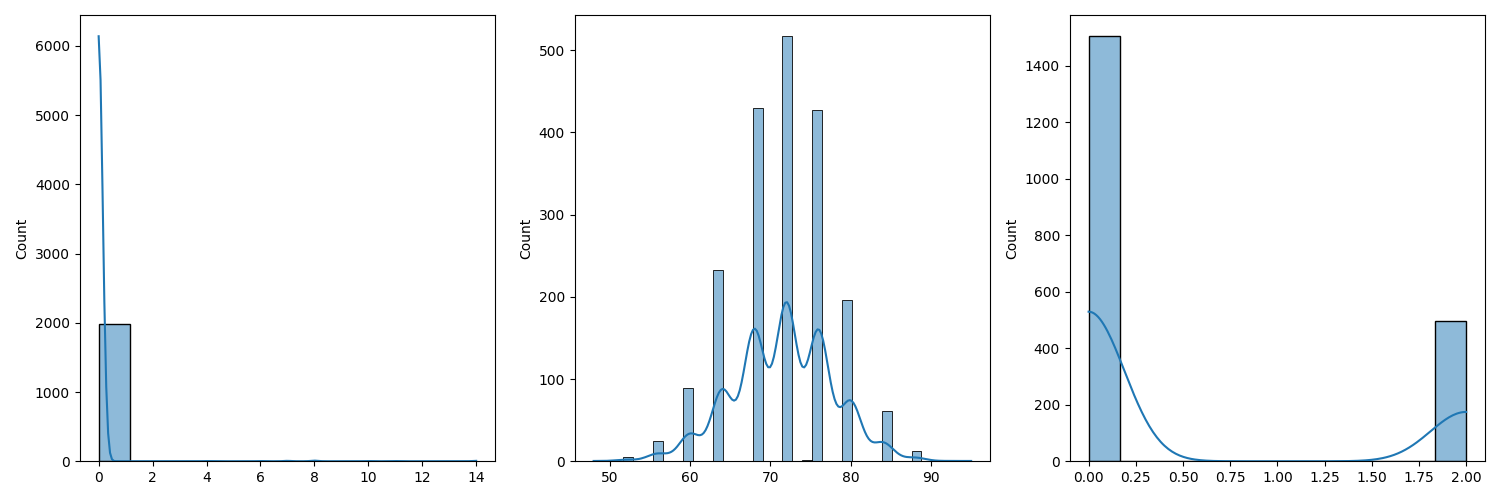
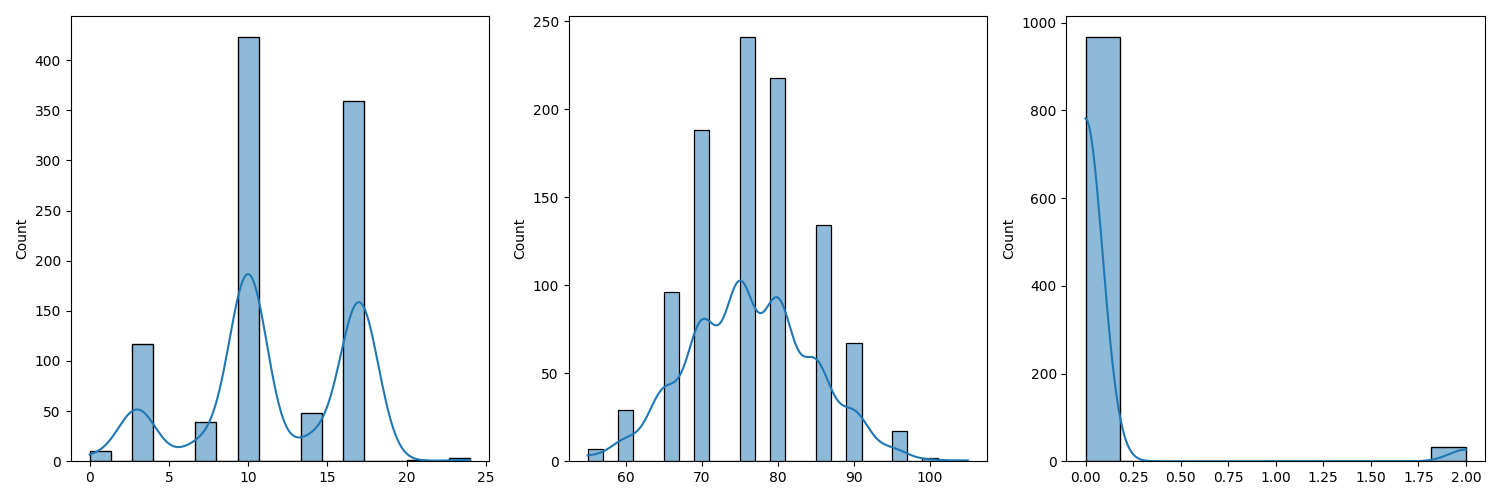
Fixed a few bugs

diff --git a/main.py b/main.py
@@ -4,19 +4,38 @@ import seaborn as sns
 import reefscape
 import random
 from reefscape import Robot
+import copy
 
 
 def quickestActionTime(actions):
     quickestTime = 999
     for action in actions:
-        actionQuickestTime = action.average_time - (action.time_spread * 3)
+        actionQuickestTime = action.average_time - (action.time_spread * 2)
         quickestTime = actionQuickestTime if actionQuickestTime < quickestTime else quickestTime
     return quickestTime
 
 
-def test_robot(robot):
+def test_robot():
+    robot = Robot(
+        list(map(reefscape.auto_actions.get, ["Leave", "Score L1", "Score L2", "Score L4"])),
+        list(map(reefscape.teleop_actions.get, ["Score L1", "Score L2", "Score L3", "Score L4"])),
+        list(map(reefscape.endgame_actions.get, ["Park"])),
+        True
+    )
+
+    reefscape.remainingReef = {
+        "Score L1": 24,
+        "Score L2": 12,
+        "Score L3": 12,
+        "Score L4": 12
+    }
+
+    reefscape.groundAlgae = 3
+    reefscape.reefAlgae = 6
+
     autoTime = 15
     teleopTime = 135
+
 
     points = [0, 0, 0]
 
@@ -24,10 +43,13 @@ def test_robot(robot):
         if quickestActionTime(robot.autoActions) > autoTime:
             break
         action = robot.autoSample()
-        if (autoTime > action.get_time()):
-            #            print(f"Doing Auto Action: {reefscape.find_key(reefscape.auto_actions, action)}")
+        actionTime = action.get_time()
+        print(f"Action: {actionTime} Auto: {autoTime}")
+        if autoTime > actionTime:
             points[0] += action.points if random.randint(1, 10) < action.success_proportion * 10 else 0
-            autoTime -= action.get_time()
+            autoTime -= actionTime
+        else:
+            break
 
     while teleopTime > 0:
         if quickestActionTime(robot.telopActions) > teleopTime:
@@ -38,13 +60,11 @@ def test_robot(robot):
             endgame = robot.endgame()
             endgameTime = endgame.get_time()
             if endgameTime > teleopTime:
-                #                print(f"Doing Endgame: {reefscape.find_key(reefscape.endgame_actions, endgame)}")
                 points[2] += endgame.points if random.randint(1, 10) < endgame.success_proportion * 10 else 0
                 break
         action = robot.teleopSample()
         actionTime = action.get_time()
         if (teleopTime > actionTime):
-            #            print(f"Doing Teleop Action: {reefscape.find_key(reefscape.teleop_actions, action)}")
             if robot.pipeGround:
                 while random.randint(1, 10) > action.success_proportion * 10:
                     teleopTime -= np.random.normal(4, 0.5)
@@ -53,36 +73,37 @@ def test_robot(robot):
             else:
                 points[1] += action.points if random.randint(1, 10) < action.success_proportion * 10 else 0
                 teleopTime -= actionTime
-
-    #    print(f"Final Points: {points}")
+        else:
+            break
+    print(f"Points: {points}")
     return points
 
 
-testbot = Robot(
-    list(map(reefscape.auto_actions.get, ["Leave", "Score L1"])),
-    list(map(reefscape.teleop_actions.get, ["Score L1", "Score L2"])),
-    list(map(reefscape.endgame_actions.get, ["Park", "Shallow Climb"])),
-    False
-)
-
-goodbot = Robot(
-    list(map(reefscape.auto_actions.get, ["Leave", "Score L1", "Score L2", "Score L4"])),
-    list(map(reefscape.teleop_actions.get, ["Score L1", "Score L2", "Score L3", "Score L4"])),
-    list(map(reefscape.endgame_actions.get, ["Park"])),
-    True
-)
-
-algaebot = Robot(
-    list(map(reefscape.auto_actions.get, ["Leave", "Score L1"])),
-    list(map(reefscape.teleop_actions.get, ["Score L1", "GroundNet", "GroundProcessor", "ReefNet", "ReefProcessor"])),
-    list(map(reefscape.endgame_actions.get, ["Park"])),
-    False
-)
+# testbot = RobotConfig(
+#     list(map(reefscape.auto_actions.get, ["Leave", "Score L1"])),
+#     list(map(reefscape.teleop_actions.get, ["Score L1", "Score L2"])),
+#     list(map(reefscape.endgame_actions.get, ["Park", "Shallow Climb"])),
+#     False
+# )
+#
+# goodbot = RobotConfig(
+#     list(map(reefscape.auto_actions.get, ["Leave", "Score L1", "Score L2", "Score L3", "Score L4"])),
+#     list(map(reefscape.teleop_actions.get, ["Score L1", "Score L2", "Score L3", "Score L4"])),
+#     list(map(reefscape.endgame_actions.get, ["Park"])),
+#     True
+# )
+#
+# algaebot = RobotConfig(
+#     list(map(reefscape.auto_actions.get, ["Leave", "Score L1"])),
+#     list(map(reefscape.teleop_actions.get, ["Score L1", "ReefNet", "ReefProcessor"])),
+#     list(map(reefscape.endgame_actions.get, ["Park"])),
+#     False
+# )
 
 fig, axes = plt.subplots(1, 3, figsize=(15, 5))
 
 print("running...")
-results = [test_robot(goodbot) for _ in range(2000)]
+results = [test_robot() for _ in range(1000)]
 for i, (data, ax) in enumerate(zip(list(map(list, zip(*results))), axes)):
     sns.histplot(data=data, kde=True, ax=ax)
 print("done")

diff --git a/reefscape.py b/reefscape.py
@@ -57,9 +57,6 @@ remainingReef = {
 groundAlgae = 3
 reefAlgae = 6
 
-autoTime = 15
-teleopTime = 135
-
 auto_actions = {
     "Score L1": Action(3, 24, 5, 0.5, .90),
     "Score L2": Action(4, 12, 6, 1, .80),
@@ -136,7 +133,6 @@ class Robot:
                 sample = np.random.choice(self.autoActions)
             if "Score L" in find_key(auto_actions, sample):
                 remainingReef[find_key(auto_actions, sample)] -= 1
-
                 if remainingReef[find_key(auto_actions, sample)] == 0:
                     try:
                         self.autoActions.remove(sample)
@@ -206,3 +202,6 @@ class Robot:
 
     def endgame(self):
         return findBestAction(self.endgameActions)
+
+    def copy(self):
+        return copy.deepcopy(self)
